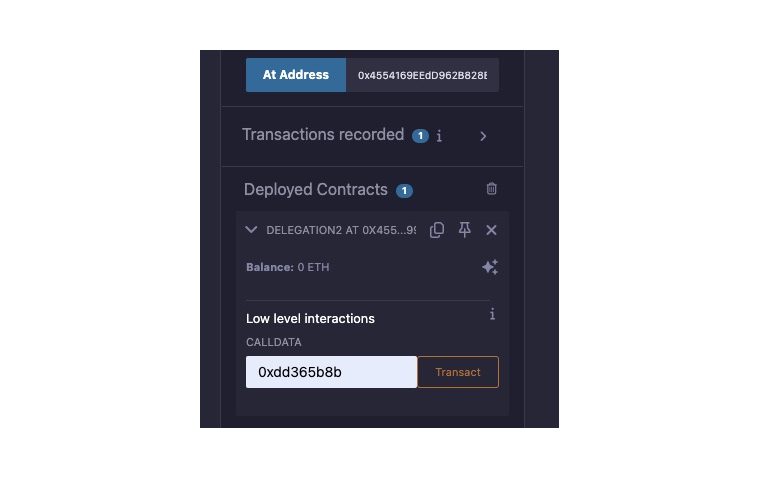
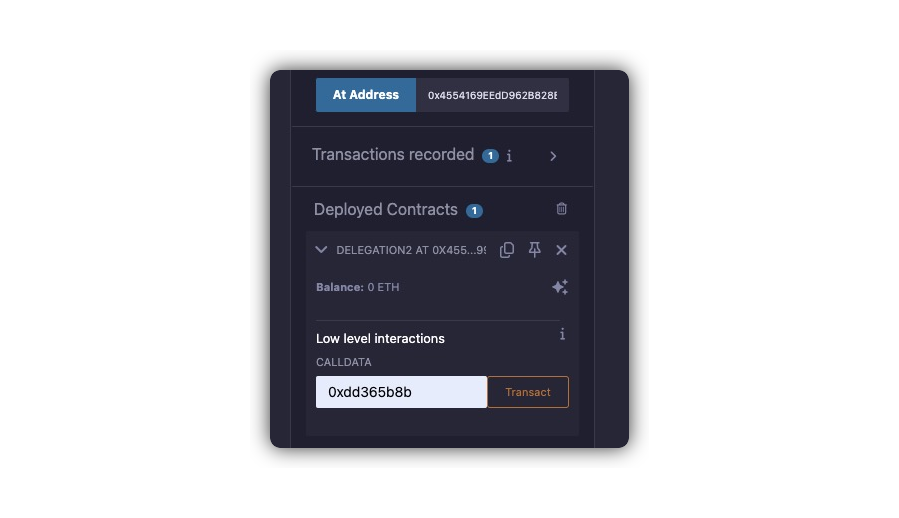
添加圆角矩形图片

diff --git a/script/script.md b/script/script.md
@@ -1,6 +1,9 @@
 # 脚本工具
 
 ```bash
-# 创建带有空白边框的png图片
-magick image.jpg -bordercolor none -border 50x50 image.png
+# 将图片换成圆角
+convert input.jpg \( +clone  -alpha extract -draw 'fill black polygon 0,0 0,10 10,0 fill white circle 10,10 10,0' \( +clone -flip \) -compose Multiply -composite \( +clone -flop \) -compose Multiply -composite \) -alpha off -compose CopyOpacity -composite tmp.png
+
+# 创建带有空白边框和阴影的png图片
+magick tmp.png \( +clone -background black -shadow 80x10+0+0 \) +swap -background none -layers merge -bordercolor none -border 100x50 abc.png
 ```
